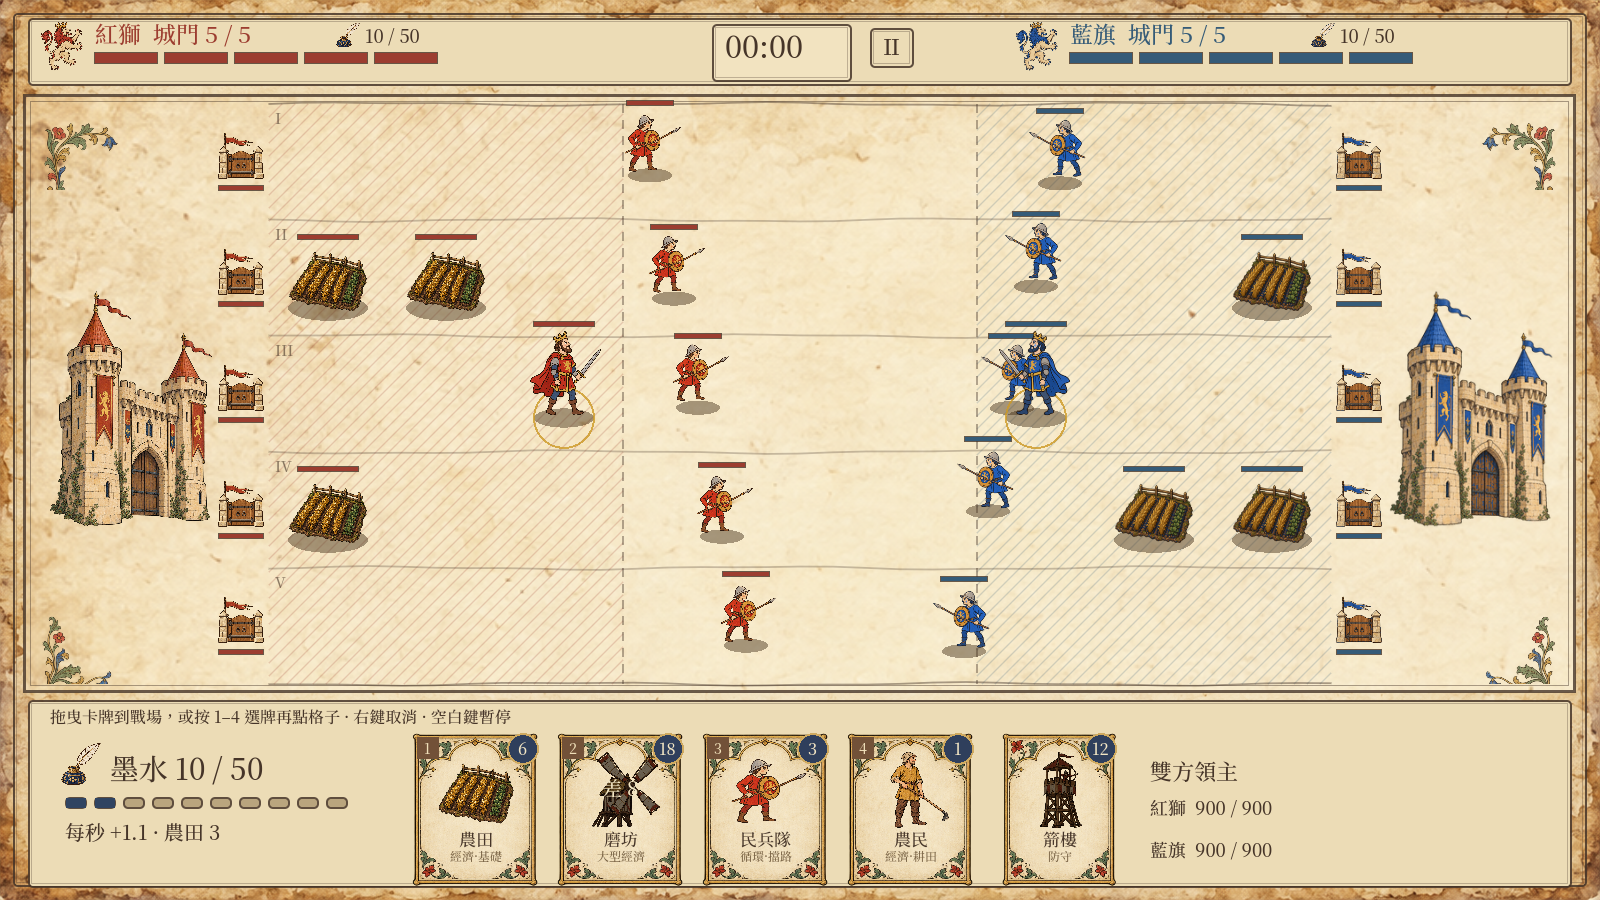
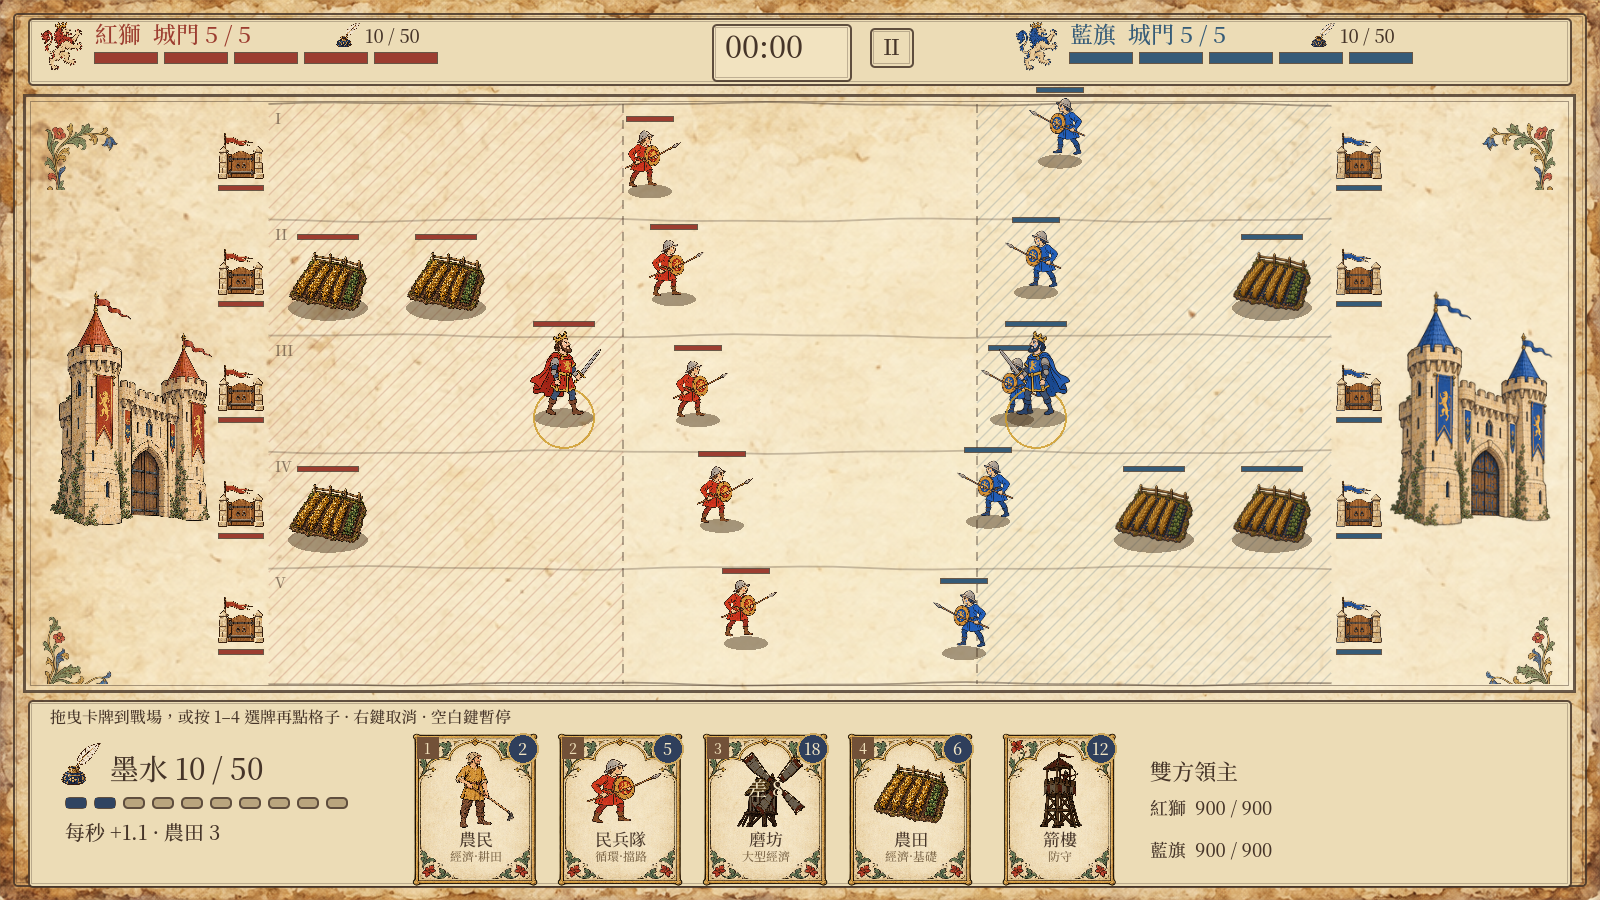
Bulk troop cards: costlier but more troops
Farmer 2 ink x4, militia 5 x4, mob 9 (3 per lane), hunter 8 x4,
spear-and-bow 13 (3+3), herbalist 12 x2, ox 14 x2, knight 22 x2,
cathedral guard 28 (2 knights + herbalist); ram stays at 30. Each troop
is a little cheaper than before. tools/sim.gd: unresolved 11 -> 4 of 18,
median decided game 8.6 -> 4.9 min, ink wasted 31% -> 19%, sunflower
deck 0% -> 50%. Producer decision 2026-10-29.

diff --git a/docs/企劃書.md b/docs/企劃書.md
@@ -9,6 +9,7 @@
 >   - **卡牌只分三類：部隊、建築、法術。部隊一律往敵方前進，不會回頭。**
 >   - **領主完全由 AI 接管**（雙方），沒有手動操作。
 > - v4.1：**墨水上限 10 → 50**。墨水數字整體 ×2（費用、回復、產量），讓費用分得更細；出牌冷卻、AI 門檻、介面跟著調整。
+> - v5.8（2026-10-29）：大部分部隊改成「更貴但兵力更多」（每名士兵略便宜）：農民 2 費 4 名、民兵 5 費 4 名、暴民 9 費三路各 3 名、獵戶 8 費 4 名、槍弓混編 13 費 3＋3、草藥婆 12 費 2 名、耕牛 14 費 2 頭、騎士 22 費 2 名、聖堂護衛 28 費 2 騎士＋1 草藥婆；攻城槌維持 30 費。
 > - v5.7（2026-10-29）：箭樓 7 → 12 費、攻擊 18 → 12（建築永久後箭樓每墨水傷害是平均的兩倍以上）。
 > - v5.6（2026-10-29）：兵種組合卡——乾草叉暴民改成「三路群攻」（選中路與左右相鄰兩路各 2 名，6 費）；新增遠近軍團「槍弓混編」（2 民兵＋2 獵戶，8 費）與重裝軍團「聖堂護衛」（騎士＋草藥婆，20 費）。向日葵流以槍弓混編取代稻草人。
 > - v5.5（2026-10-29）：農田改成每 20 秒 +4；農民耕地時也幫農田回 100 血；開局雙方各有兩塊田（第 II、IV 路最後一欄）。基礎墨水維持每秒 +0.5。
@@ -143,21 +144,21 @@
 | 費 | 卡 | 類型 | 定位 | 重點數值 |
 |---|---|---|---|---|
 |  |  |  |  | 冷卻（到手後）：農民 0、民兵 2、稻草人 3、獵戶 4、暴民 5、農田 6、箭雨 6、豐收 8、箭樓 8、草藥婆 8、耕牛 10、火罐 15、騎士 15、磨坊 20、攻城槌 30 秒 |
-| 1 | 農民 | 部隊 | 經濟·耕田 | 2 名，50 血；經過同一路我方農田停 1.5 秒耕地，田 15 秒內產量 ×2 |
-| 3 | 民兵隊 | 部隊 | 循環·擋路 | 2 名，85 血，13 傷害 / 0.95s |
+| 2 | 農民 | 部隊 | 經濟·耕田 | 4 名，50 血；經過同一路我方農田停 1.5 秒耕地，田 15 秒內產量 ×2 |
+| 5 | 民兵隊 | 部隊 | 循環·擋路 | 4 名，85 血，13 傷害 / 0.95s |
 | 3 | 豐收 | 法術 | 經濟·爆發 | 半徑 120 內我方農田立刻各冒 1 滴，8 秒內 ×2 |
 | 4 | 稻草人 | 建築 | 誘敵·護田 | 400 血、永久；150px 內敵兵優先打它 |
-| 6 | 乾草叉暴民 | 部隊 | 三路群攻 | 選中的路＋左右相鄰兩路各 2 名（共 6 名；邊路往內移），45 血，9 傷害 / 0.9s |
-| 8 | 槍弓混編 | 部隊 | 遠近軍團 | 2 名民兵在前、2 名獵戶在後，同一路出發（單買 8 費，但只佔一張牌、一次冷卻） |
-| 5 | 獵戶 | 部隊 | 遠程輸出 | 2 名，55 血，射程 170，實體箭矢 |
+| 9 | 乾草叉暴民 | 部隊 | 三路群攻 | 選中的路＋左右相鄰兩路各 3 名（共 9 名；邊路往內移），45 血，9 傷害 / 0.9s |
+| 13 | 槍弓混編 | 部隊 | 遠近軍團 | 3 名民兵在前、3 名獵戶在後，同一路出發 |
+| 8 | 獵戶 | 部隊 | 遠程輸出 | 4 名，55 血，射程 170，實體箭矢 |
 | 6 | 農田 | 建築 | 經濟·基礎 | 250 血，每 10 秒冒 1 滴（2 墨水），回本約 30 秒 |
 | 6 | 箭雨 | 法術 | 清群法術 | 半徑 110，200 傷害；建築與城門 60 |
 | 12 | 箭樓 | 建築 | 防守 | 500 血、永久；射程 200，12 傷害 / 0.8s（v5.7：7→12 費、18→12 傷害） |
-| 8 | 草藥婆 | 部隊 | 支援·治療 | 160 血；每秒為 120px 內友軍回 15 血 |
-| 9 | 耕牛 | 部隊 | 衝鋒·拆建 | 520 血；首撞 150＋擊退 30px，拆建築 ×1.5 |
+| 12 | 草藥婆 | 部隊 | 支援·治療 | 2 名，160 血；每秒為 120px 內友軍回 15 血 |
+| 14 | 耕牛 | 部隊 | 衝鋒·拆建 | 2 頭，520 血；首撞 150＋擊退 30px，拆建築 ×1.5 |
 | 11 | 火罐 | 法術 | 燒田法術 | 半徑 95，部隊 420、建築 840、城門 140 |
-| 15 | 騎士 | 部隊 | 主坦 | 1000 血，55 傷害 / 1.2s |
-| 20 | 聖堂護衛 | 部隊 | 重裝軍團 | 騎士＋跟在後面的草藥婆（分開買 23 費） |
+| 22 | 騎士 | 部隊 | 主坦 | 2 名，1000 血，55 傷害 / 1.2s |
+| 28 | 聖堂護衛 | 部隊 | 重裝軍團 | 2 名騎士＋跟在後面的草藥婆 |
 | 18 | 磨坊 | 建築 | 大型經濟 | 900 血；同一路農田產量 ×2；每一路都能蓋，同路多座不疊加（v4.9：取消每方 1 座，避免卡手） |
 | 30 | 攻城槌 | 部隊 | 終結·破門 | 1600 血，無視部隊，每 2 秒對城門／建築 160；城門破了直接走進去 |
 
